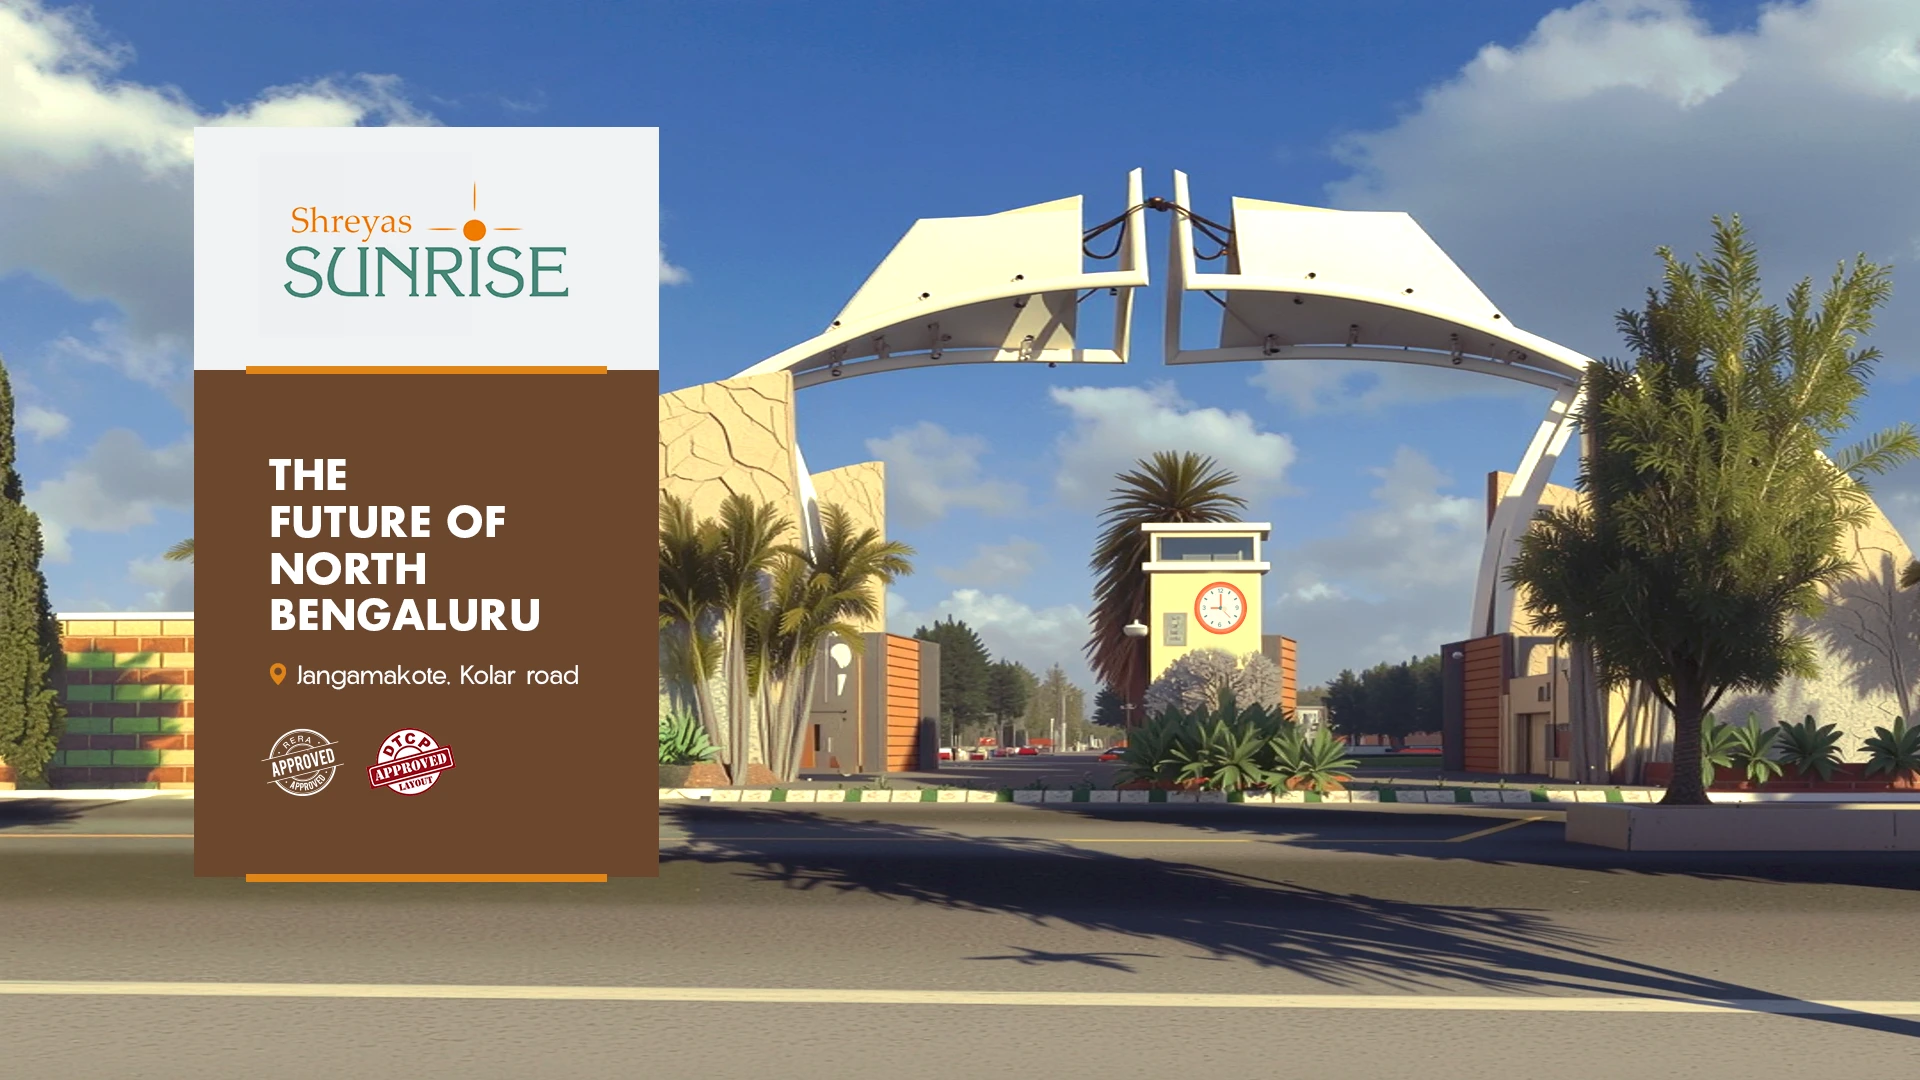
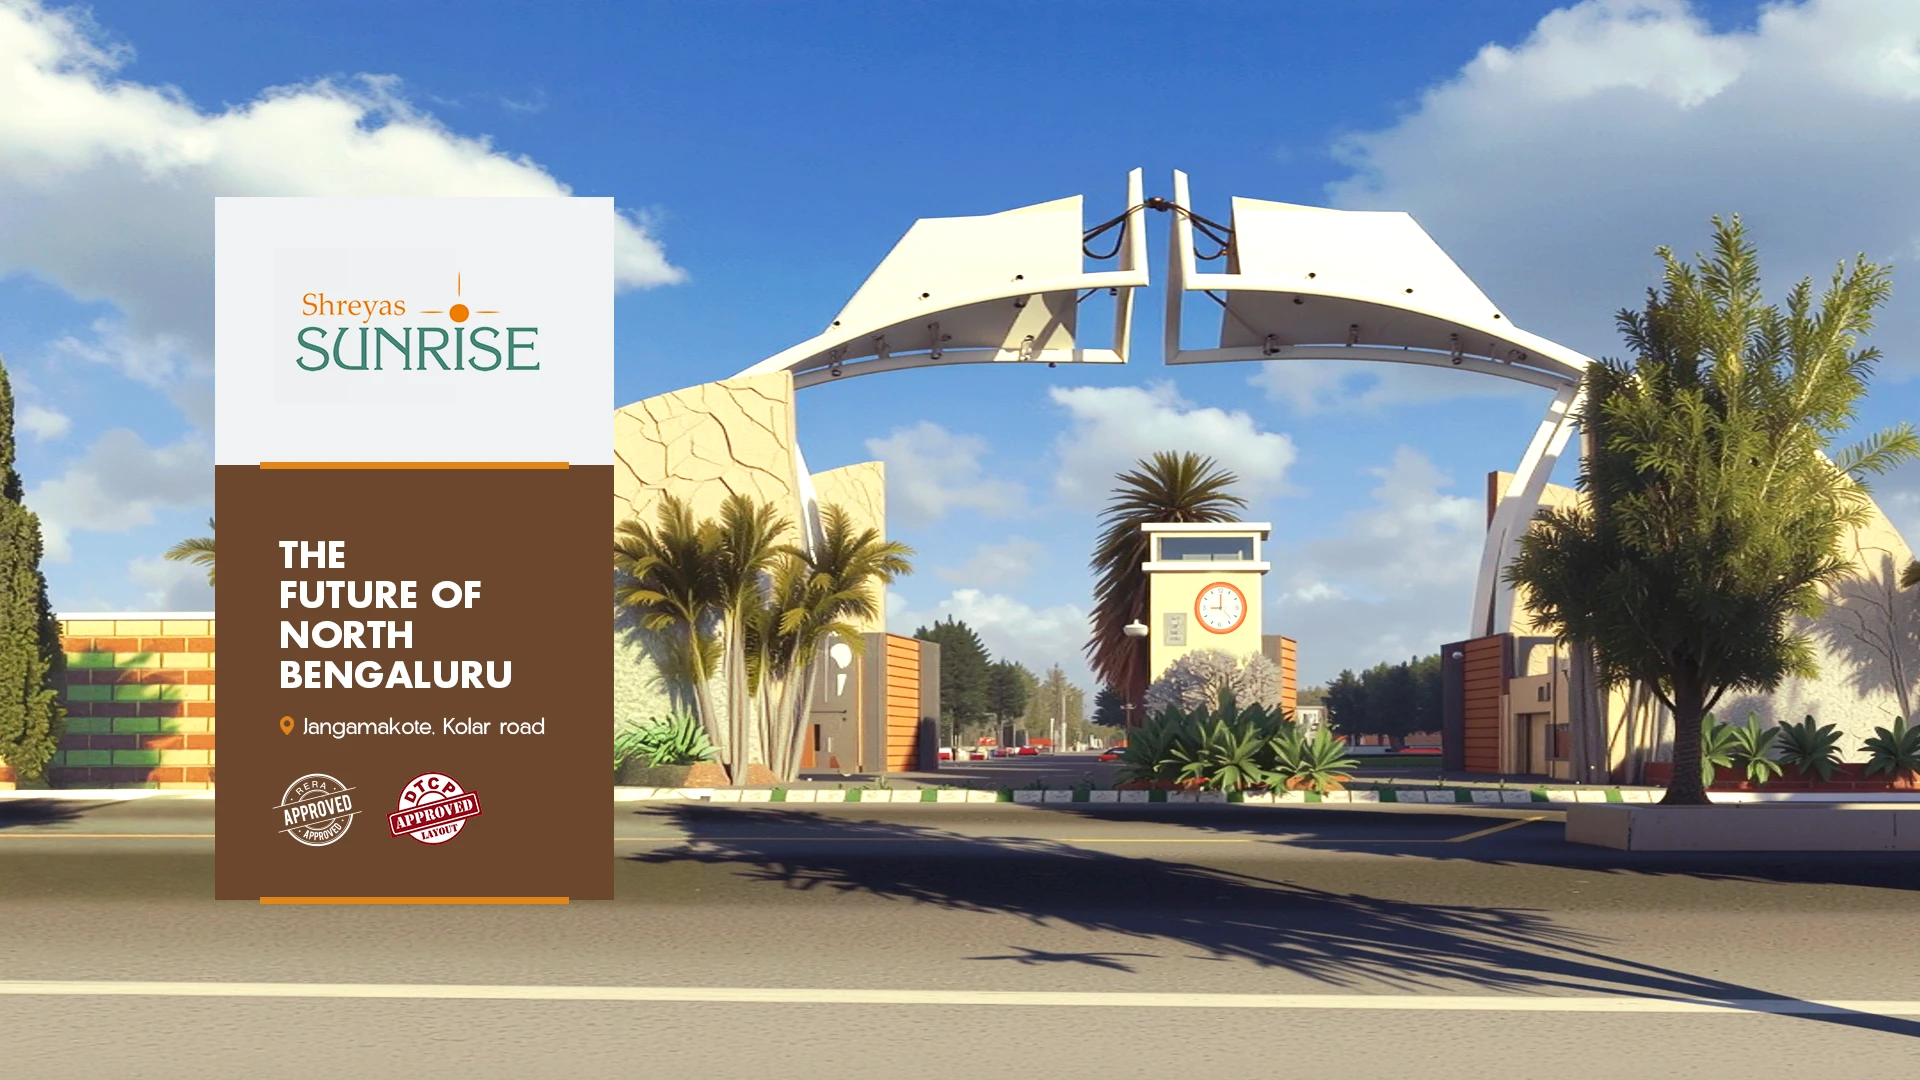
updated the images adn cahnged object cover to cut bottom firest

diff --git a/src/pages/Home/sections/HeroSection.jsx b/src/pages/Home/sections/HeroSection.jsx
@@ -56,7 +56,7 @@ const HeroSection = () => {
 
   const SLIDE_DURATION = isMobile ? 600 : 1300; // Faster auto-scroll duration on mobile
   const MANUAL_SLIDE_DURATION = isMobile ? 150 : 200; // Faster manual duration on mobile
-  const SLIDE_DELAY = isMobile ? 3000 : 6000; // Shorter delay between slides on mobile
+  const SLIDE_DELAY = isMobile ? 3000 : 3000; // Shorter delay between slides on mobile
   const RESUME_DELAY = 5000;
   const MIN_SWIPE_DISTANCE = 50;
 
@@ -176,7 +176,7 @@ const HeroSection = () => {
   };
 
   return (
-    <section className="relative w-full overflow-hidden h-auto  lg:h-[calc(100vh-80px)]">
+    <section className="relative w-full   overflow-hidden h-auto  lg:h-[calc(100vh-80px)]">
       {/* Slider Container */}
       <div
         className="relative w-full h-full"
@@ -189,7 +189,9 @@ const HeroSection = () => {
           <img
             src={heroSlides[currentIndex].imageMobile}
     alt={heroSlides[currentIndex].title}
-            className={`w-full h-full md:hidden object-cover ${
+            className={`w-full h-full md:hidden object-cover
+  object-[50%_35%]
+  lg:object-[50%_40%] ${
               isTransitioning 
                 ? slideDirection === "forward" 
                   ? isManualTransition ? "animate-old-zoom-in-fast" : "animate-old-zoom-in" 
@@ -200,7 +202,9 @@ const HeroSection = () => {
           <img
             src={heroSlides[currentIndex].imageDesktop}
     alt={heroSlides[currentIndex].title}
-            className={`w-full h-full hidden md:block object-cover ${
+            className={`w-full h-full hidden md:block object-cover
+  object-[50%_35%]
+  lg:object-[50%_40%] ${
               isTransitioning 
                 ? slideDirection === "forward" 
                   ? isManualTransition ? "animate-old-zoom-in-fast" : "animate-old-zoom-in" 
@@ -230,7 +234,9 @@ const HeroSection = () => {
           <img
             src={getSlideImage(heroSlides[targetIndex])}
             alt={heroSlides[targetIndex].title}
-            className={`w-full h-auto  lg:h-full object-contain  lg:object-cover ${
+            className={`w-full h-auto  lg:h-full object-contain  lg:object-cover
+  object-[50%_35%]
+  lg:object-[50%_40%] ${
               isTransitioning 
                 ? slideDirection === "forward" 
                   ? isManualTransition ? "animate-new-zoom-out-fast" : "animate-new-zoom-out" 
